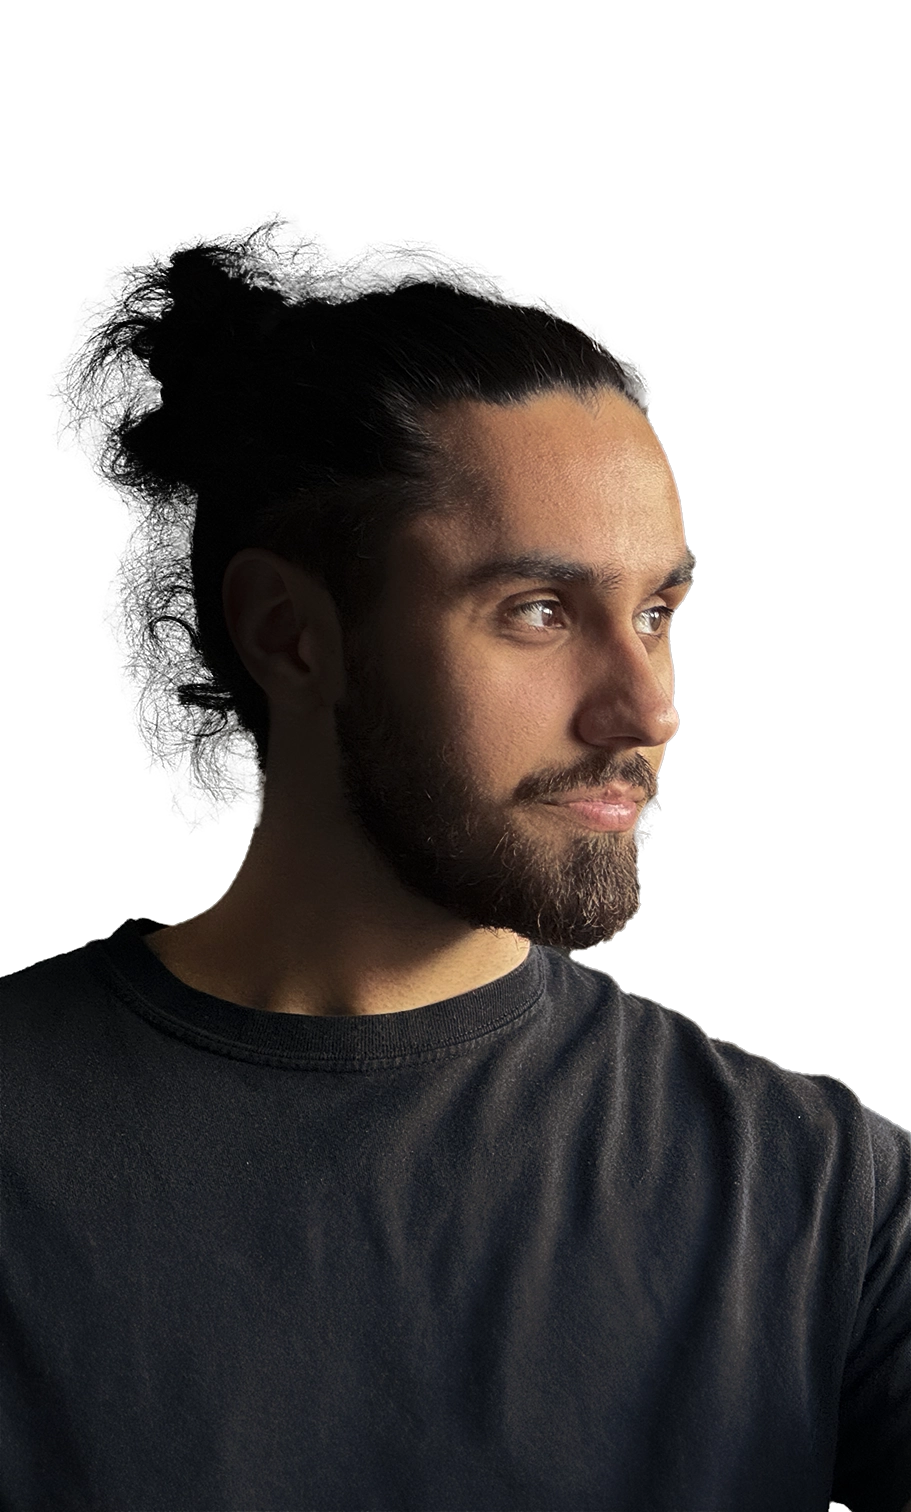
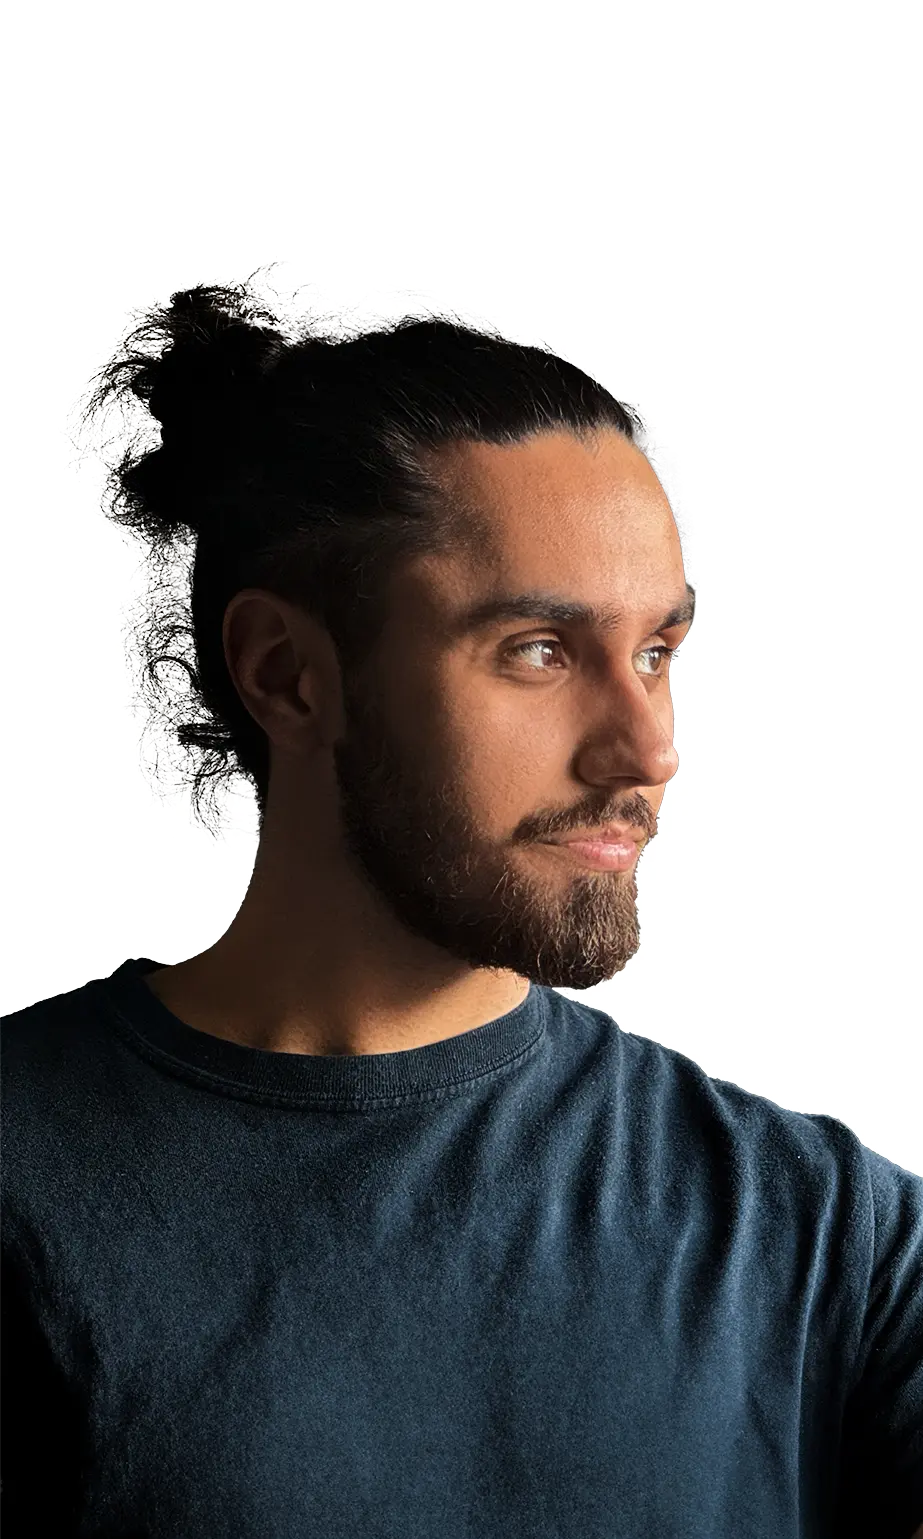
improved about section and image

Changed region(s): [[0.0, 0.1243, 1.0, 1.0], [0.2459, 0.9636, 0.2766, 1.0]]

diff --git a/src/components/ExpandableAboutDescription.tsx b/src/components/ExpandableAboutDescription.tsx
@@ -1,0 +1,121 @@
+"use client";
+
+import React, { useEffect, useRef, useState } from "react";
+import { Button } from "./ui/button";
+import { cn } from "@/lib/utils";
+import { AnimatePresence, motion } from "framer-motion";
+import { X } from "lucide-react";
+
+const ExpandableAboutDescription = () => {
+    const [open, setOpen] = useState(false);
+    const [contentHeight, setContentHeight] = useState(0);
+    const contentRef = useRef<HTMLDivElement>(null);
+
+    useEffect(() => {
+        if (contentRef.current) {
+            setContentHeight(contentRef.current.scrollHeight);
+        }
+    }, [open]);
+
+    function toggleOpen() {
+        setOpen(!open);
+    }
+
+    return (
+        <>
+            <div
+                className={cn(
+                    "absolute bottom-0 left-0 z-10 flex w-full flex-col gap-2 bg-gradient-to-t from-background to-transparent p-10",
+                )}
+            >
+                <AnimatePresence mode="wait">
+                    {!open && (
+                        <motion.p
+                            className="text-sm text-muted-foreground xl:text-base xl:leading-8"
+                            initial={{ opacity: 0, y: 20 }}
+                            animate={{ opacity: 1, y: 0 }}
+                            exit={{ opacity: 0, y: -20 }}
+                            transition={{ duration: 0.3, ease: "easeInOut" }}
+                        >
+                            I’m a new computer science graduate from Oregon
+                            State University with a focus in cybersecurity and
+                            full stack web development.
+                        </motion.p>
+                    )}
+                </AnimatePresence>
+                <Button
+                    variant="outline"
+                    className="mt-4 rounded-full bg-transparent backdrop-blur-2xl"
+                    onClick={toggleOpen}
+                >
+                    {open ? "Close" : "Read More"}
+                </Button>
+            </div>
+            <AnimatePresence>
+                {open && (
+                    <motion.div
+                        initial={{ height: 0 }}
+                        animate={{ height: "100%" }}
+                        exit={{ height: 0 }}
+                        transition={{
+                            duration: 0.8,
+                            ease: [0.76, 0, 0.24, 1],
+                        }}
+                        className="absolute bottom-0 h-full rounded-tr-[20px] bg-background/25 p-5 backdrop-blur-2xl"
+                    >
+                        <div className="mb-4 flex">
+                            <div className="flex-1" />
+                            <Button
+                                variant="outline"
+                                size="icon"
+                                className="rounded-full bg-transparent backdrop-blur-2xl"
+                                onClick={toggleOpen}
+                            >
+                                <X className="h-4 w-4" />
+                            </Button>
+                        </div>
+                        <div className="flex flex-col gap-2">
+                            <p className="text-sm text-muted-foreground xl:text-base xl:leading-8">
+                                I love to problem solve, and create visually
+                                elegant and user friendly experiences.
+                            </p>
+                            <ul className="flex flex-col gap-2">
+                                <li className="rounded-lg bg-background/50 p-5">
+                                    <p>Full Stack</p>
+                                    <p className="text-sm text-muted-foreground xl:text-base xl:leading-8">
+                                        With a passion for web applications I
+                                        enjoy implementing full and robust
+                                        features that utilize the full range of
+                                        the tech stack.
+                                    </p>
+                                </li>
+                                <li className="rounded-lg bg-background/50 p-5">
+                                    <p>Cybersecurity</p>
+                                    <p className="text-sm text-muted-foreground xl:text-base xl:leading-8">
+                                        Throughout college I focused in
+                                        security, learning about cryptography,
+                                        hacking, and best practices. This
+                                        practice experience has translated into
+                                        a technical passion and knowledge in
+                                        building secure applications.
+                                    </p>
+                                </li>
+                                <li className="rounded-lg bg-background/50 p-5">
+                                    <p>Design</p>
+                                    <p className="text-sm text-muted-foreground xl:text-base xl:leading-8">
+                                        With experience in graph design and a
+                                        love for ascetics I enjoy crafting
+                                        visually appealing and usable
+                                        interfaces.
+                                    </p>
+                                </li>
+                            </ul>
+                        </div>
+                    </motion.div>
+                )}
+            </AnimatePresence>
+        </>
+    );
+};
+
+export default ExpandableAboutDescription;

diff --git a/src/app/page.tsx b/src/app/page.tsx
@@ -15,6 +15,7 @@ const TechCircle = dynamic(() => import("@/components/TechCircle"), {
 import Paragraph from "@/lib/AnimatedParagraph";
 import dynamic from "next/dynamic";
 import ContactInfo from "@/components/ContactInfo";
+import ExpandableAboutDescription from "@/components/ExpandableAboutDescription";
 
 export default function Portfolio() {
     return (
@@ -64,31 +65,23 @@ export default function Portfolio() {
                     }
                 >
                     <div className="grid grid-cols-1 overflow-hidden rounded-b-[40px] border border-t-0 md:grid-cols-2 lg:grid-cols-5">
-                        <div className="relative flex flex-col p-5 pb-0 md:col-span-3">
-                            <h1 className="mb-4 text-5xl text-border">
-                                About Me
-                            </h1>
+                        <div className="relative flex flex-col pb-0 md:col-span-3">
+                            <h1 className="p-5 text-5xl">About Me</h1>
                             <div
-                                className="absolute inset-0 -z-10 mix-blend-lighten blur-[100px]"
+                                className="absolute inset-0 -z-10 bg-cover bg-center mix-blend-lighten blur-[100px]"
                                 style={{
                                     backgroundImage: "url(/self.webp)",
-                                    backgroundSize: "cover",
-                                    backgroundPosition: "center",
                                 }}
                             />
-                            <div className="relative aspect-[9/15] w-full">
+                            <div className="relative aspect-[9/15] w-full overflow-clip rounded-tr-[20px]">
                                 <Image
                                     src="/self.webp"
                                     fill
-                                    alt=""
-                                    className="rounded-lg"
+                                    alt="Portrait of a man with dark hair in a messy bun, beard, and dark t-shirt, looking to the side"
+                                    quality={100}
                                 />
+                                <ExpandableAboutDescription />
                             </div>
-                            <p className="absolute bottom-0 left-0 bg-gradient-to-t from-background to-transparent p-10 text-sm text-muted-foreground xl:text-base xl:leading-8">
-                                I’m a new computer science graduate from Oregon
-                                State University with a focus in cybersecurity
-                                and full stack web development.
-                            </p>
                         </div>
                         <div className="relative -z-20 col-span-2 flex flex-col justify-between px-5 py-10">
                             <div className="relative -z-20 aspect-square translate-x-0 p-2 transition-transform lg:translate-x-[-50%]">
@@ -115,7 +108,7 @@ export default function Portfolio() {
                         </div>
                         <div className="col-span-3 p-0 transition-all md:p-5">
                             <div className="relative overflow-hidden rounded-[20px] bg-border/50 p-5">
-                                <h1 className="mb-8 text-5xl p-5 pb-0 md:p-0">
+                                <h1 className="mb-8 p-5 pb-0 text-5xl md:p-0">
                                     Let&apos;s Connect!
                                 </h1>
                                 <ContactForm />
